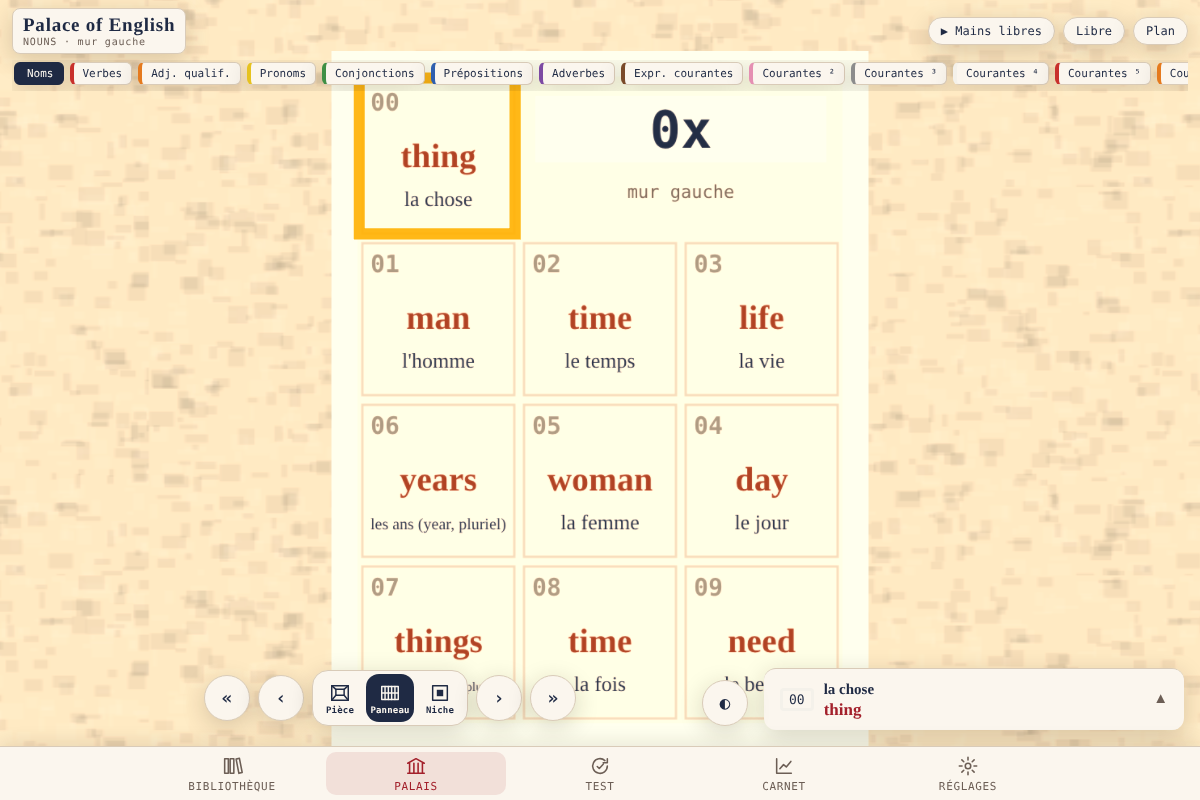
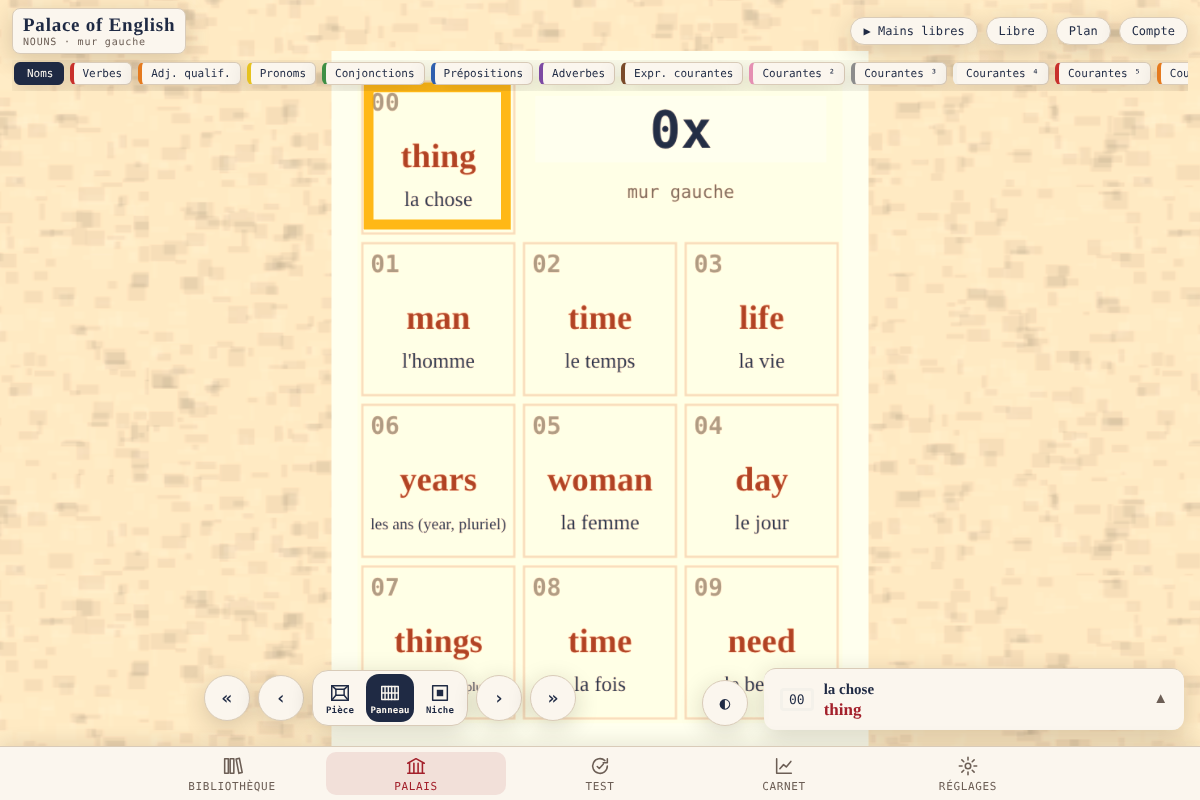
Réglages : section Compte (inscription, profil, suppression)
- Inscription ou connexion par code e-mail, avec case d'accord à l'inscription
- Profil : pseudo, changement d'adresse e-mail
- Progression : synchroniser, exporter en JSON
- Session : se déconnecter, se déconnecter partout
- Zone sensible : effacer la progression du serveur, supprimer son compte
  (fonction delete_own_account ajoutée à supabase/schema.sql)
- Paramètres du serveur Supabase réglables dans le navigateur
- Le bouton Compte ouvre désormais cette section

Claude-Session: https://claude.ai/code/session_015hKvfP9JfHFgn3vZcoheVE

Changed region(s): [[0.2775, 0.0938, 0.4317, 0.3125], [0.7092, 0.0, 0.8325, 0.0625], [0.8633, 0.0, 0.9867, 0.0625]]

diff --git a/index.html b/index.html
@@ -332,10 +332,6 @@ body:not([data-view="palais"]) #joy, body:not([data-view="palais"]) #cross, body
   <div class="btns"><button class="btn alt" type="button" data-close>Annuler</button><button class="btn danger" type="button" id="resetGo">Oui, tout effacer</button></div>
 </div></div>
 
-<div class="sheet" id="accountSheet" hidden><div>
-  <div class="shead"><h2>Mon compte</h2><span class="spacer"></span><button class="chip" type="button" data-close>Fermer</button></div>
-  <div id="accountBody" style="display:flex;flex-direction:column;gap:12px"></div>
-</div></div>
 
 <section class="view" id="lib" hidden aria-label="Bibliothèque"><div class="in">
   <h1>Bibliothèque <small id="libCount"></small></h1>
@@ -354,7 +350,9 @@ body:not([data-view="palais"]) #joy, body:not([data-view="palais"]) #cross, body
 
 <section class="view" id="reglages" hidden aria-label="Réglages"><div class="in">
   <h1>Réglages</h1>
-  <h2 style="margin:4px 0 0">Palais</h2>
+  <h2 style="margin:4px 0 0" id="compte">Compte</h2>
+  <div id="acctBody" style="display:flex;flex-direction:column;gap:10px"></div>
+  <h2 style="margin:18px 0 0">Palais</h2>
   <h3>Lecture pendant la visite</h3>
   <div class="pills" role="group" aria-label="Lecture audio pendant la visite du palais"><button class="pill" type="button" data-sayopt="vF">🔊 Mot FR</button><button class="pill" type="button" data-sayopt="vI">🔊 Mot EN</button><button class="pill" type="button" data-sayopt="vEF">🔊 Exemple FR</button><button class="pill" type="button" data-sayopt="vEI">🔊 Exemple EN</button></div>
   <p class="pr" style="margin:0">À chaque niche atteinte (visite guidée ou libre), les sons cochés sont lus l'un après l'autre, dans cet ordre.</p>
@@ -1278,7 +1276,7 @@ prefs.approach = AP_OF[PAL];   // l'approche d'apprentissage et la version du pa
 function save() { ls.set(PK("pos"), { r: st.r, n: st.n, zoom: st.zoom, zv: 2 }); }   // zv : cadrage choisi après le passage au « panneau » par défaut
 /* Deux comptes possibles : le compte Claude (capacité db) quand la page tourne dans Claude,
    ou un compte e-mail Supabase (code à 6 chiffres) sur la version GitHub Pages. Sinon : navigateur seulement. */
-const SBCFG = window.PM_CONFIG || {};
+const SBCFG = (() => { const c = Object.assign({}, window.PM_CONFIG || {}); try { const o = JSON.parse(localStorage.getItem("pmen:sbcfg") || "null"); if (o && o.supabaseUrl && o.supabaseKey) { c.supabaseUrl = o.supabaseUrl; c.supabaseKey = o.supabaseKey; c.local = true; } } catch (e) {} return c; })();
 const store = { kind: null, db: null, sb: null, uid: null, email: "", cache: {}, timers: {} };
 const mergeCards = (a, b) => { const o = Object.assign({}, a); for (const k in b) { const x = o[k], y = b[k]; if (!x || (y.seen || 0) > (x.seen || 0) || (y.d || 0) > (x.d || 0) || ((y.d || 0) === (x.d || 0) && (y.b || 0) > (x.b || 0))) o[k] = y; } return o; };
 async function remoteGet(key) {
@@ -1308,12 +1306,13 @@ async function initStore() {
       $("#accountBtn").hidden = false;
       const { data } = await store.sb.auth.getSession();
       if (data && data.session) await useSession(data.session); else renderAccount();
+      store.sb.auth.onAuthStateChange((ev, s) => { if (ev === "USER_UPDATED" && s) { store.user = s.user; store.email = s.user.email || store.email; renderAccount(); } });
     }
   } catch (e) { console.warn("stockage", e); }
 }
 function loadScript(src) { return new Promise((ok, ko) => { const sc = document.createElement("script"); sc.src = src; sc.onload = ok; sc.onerror = ko; document.head.appendChild(sc); }); }
 async function useSession(session) {
-  store.kind = "sb"; store.uid = session.user.id; store.email = session.user.email || "";
+  store.kind = "sb"; store.uid = session.user.id; store.user = session.user; store.email = session.user.email || "";
   const owner = ls.get("owner", null);
   if (owner && owner !== store.uid) { for (const r of CR()) ls.set("srs_" + r.id, {}); ls.set("hist", []); HIST = []; }
   ls.set("owner", store.uid); store.cache = {};
@@ -1422,30 +1421,132 @@ async function doReset() {
   }
   toast("Progression effacée : on repart de zéro"); setTimeout(() => location.reload(), 700);
 }
-/* Fenêtre « Compte » (version GitHub Pages) */
+/* Compte (section « Compte » des Réglages) : inscription / connexion par code e-mail (Supabase), réglages du compte,
+   export et suppression. La version publiée dans Claude utilise le compte Claude et n'affiche que l'état. */
+const acct = { step: "", confirm: "" };
+const inputCss = "font:inherit;font-size:16px;flex:1;min-width:12em;padding:6px 8px;border:1px solid var(--line);border-radius:8px;background:var(--bg);color:var(--fg)";
+const fmtDate = s => { try { return new Date(s).toLocaleDateString("fr-FR", { day: "numeric", month: "long", year: "numeric" }); } catch (e) { return ""; } };
+function localProgress() { const o = { palais: "Palace of English", exporte: new Date().toISOString(), srs: {}, hist: ls.get("hist", []), notes: ls.get("notes", {}) }; for (const id of allRoomIds()) { const c = ls.get("srs_" + id, {}); if (Object.keys(c).length) o.srs[id] = c; } return o; }
+function cardCount() { let n = 0; for (const id of allRoomIds()) n += Object.keys(ls.get("srs_" + id, {})).length; return n; }
+function serverBlock() {
+  const open = acct.step === "server";
+  return `<details ${open ? "open" : ""} style="margin-top:4px"><summary class="pr" style="cursor:pointer">Paramètres du serveur Supabase</summary>
+    <p class="pr" style="margin:8px 0">Le palais se synchronise avec un projet Supabase (table « progress », voir <span class="mono">supabase/schema.sql</span>). ${SBCFG.supabaseUrl ? `Serveur actuel : <span class="mono">${esc(SBCFG.supabaseUrl.replace(/^https?:\/\//, ""))}</span>${SBCFG.local ? " (réglé sur cet appareil)" : " (config.js)"}.` : "Aucun serveur n'est réglé : la progression reste sur cet appareil."}</p>
+    <div class="frow"><label for="sbUrl">URL du projet</label><input id="sbUrl" type="url" placeholder="https://xxxx.supabase.co" style="${inputCss}" value="${esc(SBCFG.local ? SBCFG.supabaseUrl : "")}"></div>
+    <div class="frow"><label for="sbKey">Clé « anon public »</label><input id="sbKey" type="text" autocomplete="off" spellcheck="false" placeholder="eyJ…" style="${inputCss}" value="${esc(SBCFG.local ? SBCFG.supabaseKey : "")}"></div>
+    <div class="btns"><button class="btn alt" type="button" data-acct="srvSave">Enregistrer et recharger</button>${SBCFG.local ? `<button class="btn alt" type="button" data-acct="srvReset">Revenir à config.js</button>` : ""}</div>
+    <p class="pr" style="margin:0">La clé « anon public » est faite pour être publique (Supabase → Project Settings → API). Ce réglage ne vaut que pour ce navigateur.</p></details>`;
+}
 function renderAccount(step) {
-  const b = $("#accountBody"); if (!b) return;
-  if (store.kind === "sb") { b.innerHTML = `<p style="margin:0">Connecté avec <b>${esc(store.email)}</b>. Ta progression est enregistrée sur ton compte et suit tes appareils.</p><div class="btns"><button class="btn alt" type="button" id="sbOut">Se déconnecter</button></div>`; return; }
-  if (step === "code") { b.innerHTML = `<p style="margin:0">Un code à 6 chiffres a été envoyé à <b>${esc(store.email)}</b>. Il peut mettre une minute à arriver ; pense aux courriers indésirables.</p>
+  if (step !== undefined) acct.step = step;
+  const b = $("#acctBody"); if (!b) return;
+  const msg = `<p class="pr" id="sbMsg" style="margin:0"></p>`;
+  if (store.kind === "claude") { b.innerHTML = `<p style="margin:0">Ta progression est enregistrée sur ton compte Claude et te suit sur tous tes appareils. Rien à régler ici.</p>`; return; }
+  if (!store.sb) {
+    b.innerHTML = `<p style="margin:0">Pas de compte : ta progression (${cardCount()} cartes) est enregistrée dans ce navigateur seulement.</p>
+      <div class="btns"><button class="btn alt" type="button" data-acct="export">Exporter ma progression</button></div>${serverBlock()}${msg}`; return;
+  }
+  if (store.kind === "sb") {
+    const u = store.user || {}, name = (u.user_metadata && u.user_metadata.name) || "";
+    if (acct.step === "email") { b.innerHTML = `<p style="margin:0">Nouvelle adresse e-mail. Un lien de confirmation sera envoyé aux deux adresses ; le changement prend effet une fois confirmé.</p>
+      <div class="frow"><label for="sbNewEmail">Nouvelle adresse</label><input id="sbNewEmail" type="email" autocomplete="email" style="${inputCss}"></div>
+      <div class="btns"><button class="btn" type="button" data-acct="emailGo">Changer d'adresse</button><button class="btn alt" type="button" data-acct="back">Annuler</button></div>${msg}`; setTimeout(() => $("#sbNewEmail") && $("#sbNewEmail").focus(), 50); return; }
+    if (acct.step === "name") { b.innerHTML = `<div class="frow"><label for="sbName">Prénom ou pseudo</label><input id="sbName" type="text" autocomplete="nickname" maxlength="40" style="${inputCss}" value="${esc(name)}"></div>
+      <div class="btns"><button class="btn" type="button" data-acct="nameGo">Enregistrer</button><button class="btn alt" type="button" data-acct="back">Annuler</button></div>${msg}`; setTimeout(() => $("#sbName") && $("#sbName").focus(), 50); return; }
+    if (acct.step === "delData" || acct.step === "delAcct") {
+      const all = acct.step === "delAcct";
+      b.innerHTML = `<p style="margin:0"><b>${all ? "Supprimer définitivement ton compte" : "Effacer ta progression enregistrée sur le compte"}</b></p>
+        <p class="pr" style="margin:0">${all ? "Ton compte, ton adresse e-mail et toute ta progression sur le serveur (tous les palais liés à ce compte) seront supprimés. Une copie reste dans ce navigateur, que tu peux exporter avant." : "La progression du Palace of English enregistrée sur le serveur est effacée ; ton compte et la copie de ce navigateur sont conservés."} Action irréversible.</p>
+        <div class="frow"><label for="sbConfirm">Tape <b>${all ? "SUPPRIMER" : "EFFACER"}</b> pour confirmer</label><input id="sbConfirm" type="text" autocomplete="off" style="${inputCss};max-width:10em"></div>
+        <div class="btns"><button class="btn danger" type="button" data-acct="${all ? "delAcctGo" : "delDataGo"}">${all ? "Supprimer mon compte" : "Effacer la progression du serveur"}</button><button class="btn alt" type="button" data-acct="back">Annuler</button></div>${msg}`; return;
+    }
+    b.innerHTML = `<p style="margin:0">Connecté avec <b>${esc(store.email)}</b>${name ? ` · ${esc(name)}` : ""}. Ta progression est enregistrée sur ton compte et suit tes appareils.</p>
+      ${u.created_at ? `<p class="pr" style="margin:0">Compte créé le ${fmtDate(u.created_at)}${u.last_sign_in_at ? ` · dernière connexion le ${fmtDate(u.last_sign_in_at)}` : ""}.</p>` : ""}
+      <h3 style="margin:6px 0 0">Profil</h3>
+      <div class="btns"><button class="btn alt" type="button" data-acct="name">${name ? "Changer de pseudo" : "Ajouter un pseudo"}</button><button class="btn alt" type="button" data-acct="email">Changer d'adresse e-mail</button></div>
+      <h3 style="margin:6px 0 0">Progression</h3>
+      <div class="btns"><button class="btn alt" type="button" data-acct="sync">Synchroniser maintenant</button><button class="btn alt" type="button" data-acct="export">Exporter (fichier JSON)</button></div>
+      <h3 style="margin:6px 0 0">Session</h3>
+      <div class="btns"><button class="btn alt" type="button" data-acct="out">Se déconnecter</button><button class="btn alt" type="button" data-acct="outAll">Se déconnecter partout</button></div>
+      <h3 style="margin:6px 0 0">Zone sensible</h3>
+      <div class="btns"><button class="btn danger" type="button" data-acct="delData">Effacer ma progression du serveur…</button><button class="btn danger" type="button" data-acct="delAcct">Supprimer mon compte…</button></div>
+      ${serverBlock()}${msg}`; return;
+  }
+  if (acct.step === "code") { b.innerHTML = `<p style="margin:0">Un code à 6 chiffres a été envoyé à <b>${esc(store.email)}</b>. Il peut mettre une minute à arriver ; pense aux courriers indésirables.</p>
       <div class="frow"><label for="sbCode">Code</label><input id="sbCode" type="text" inputmode="numeric" autocomplete="one-time-code" maxlength="6" style="font:inherit;font-size:20px;letter-spacing:.3em;width:7em;padding:6px 8px;border:1px solid var(--line);border-radius:8px;background:var(--bg);color:var(--fg)"></div>
-      <div class="btns"><button class="btn" type="button" id="sbVerify">Se connecter</button><button class="btn alt" type="button" id="sbBack">Changer d'adresse</button></div><p class="pr" id="sbMsg" style="margin:0"></p>`; setTimeout(() => $("#sbCode") && $("#sbCode").focus(), 50); return; }
-  b.innerHTML = `<p style="margin:0">Connecte-toi pour retrouver ta progression sur tous tes appareils. Pas de mot de passe : tu reçois un code par e-mail.</p>
-    <div class="frow"><label for="sbEmail">E-mail</label><input id="sbEmail" type="email" autocomplete="email" placeholder="prenom@exemple.fr" style="font:inherit;font-size:16px;flex:1;min-width:12em;padding:6px 8px;border:1px solid var(--line);border-radius:8px;background:var(--bg);color:var(--fg)" value="${esc(store.email)}"></div>
-    <div class="btns"><button class="btn" type="button" id="sbSend">Recevoir un code</button></div><p class="pr" id="sbMsg" style="margin:0"></p>`;
+      <div class="btns"><button class="btn" type="button" data-acct="verify">Valider</button><button class="btn alt" type="button" data-acct="resend">Renvoyer le code</button><button class="btn alt" type="button" data-acct="back">Changer d'adresse</button></div>${msg}`; setTimeout(() => $("#sbCode") && $("#sbCode").focus(), 50); return; }
+  const signup = acct.mode !== "login";
+  b.innerHTML = `<div class="pills" role="group" aria-label="Inscription ou connexion"><button class="pill" type="button" data-acct="modeSignup" aria-pressed="${signup}">Créer un compte</button><button class="pill" type="button" data-acct="modeLogin" aria-pressed="${!signup}">J'ai déjà un compte</button></div>
+    <p style="margin:0">${signup ? "Crée un compte gratuit pour retrouver ta progression sur tous tes appareils. Ta progression actuelle (" + cardCount() + " cartes) y sera ajoutée." : "Connecte-toi pour retrouver ta progression."} Pas de mot de passe : tu reçois un code par e-mail.</p>
+    <div class="frow"><label for="sbEmail">E-mail</label><input id="sbEmail" type="email" autocomplete="email" placeholder="prenom@exemple.fr" style="${inputCss}" value="${esc(store.email)}"></div>
+    ${signup ? `<label class="pr" style="display:flex;gap:8px;align-items:flex-start;margin:0"><input type="checkbox" id="sbOk" style="margin-top:3px"> J'accepte que mon adresse e-mail et ma progression soient enregistrées pour synchroniser le palais ; je peux supprimer mon compte à tout moment ici.</label>` : ""}
+    <div class="btns"><button class="btn" type="button" data-acct="send">${signup ? "Créer mon compte" : "Recevoir un code"}</button><button class="btn alt" type="button" data-acct="export">Exporter ma progression</button></div>${serverBlock()}${msg}`;
 }
-async function sbSend() {
-  const email = ($("#sbEmail").value || "").trim(); if (!/^\S+@\S+\.\S+$/.test(email)) { $("#sbMsg").textContent = "Adresse e-mail invalide."; return; }
-  $("#sbMsg").textContent = "Envoi…"; const { error } = await store.sb.auth.signInWithOtp({ email, options: { shouldCreateUser: true } });
-  if (error) { $("#sbMsg").textContent = error.status === 429 ? "Trop d'envois rapprochés : réessaie dans quelques minutes." : "Envoi impossible : " + error.message; return; }
-  store.email = email; renderAccount("code");
+const say = t => { const m = $("#sbMsg"); if (m) m.textContent = t; };
+function sbErr(error) { return error.status === 429 ? "Trop d'essais rapprochés : réessaie dans quelques minutes." : /signups? not allowed|user not found|otp_disabled/i.test(error.message || "") ? "Aucun compte avec cette adresse. Choisis « Créer un compte »." : error.message; }
+async function acctAction(a) {
+  try {
+    if (a === "modeSignup" || a === "modeLogin") { acct.mode = a === "modeLogin" ? "login" : "signup"; return renderAccount(""); }
+    if (a === "back") { acct.step = ""; return renderAccount(""); }
+    if (a === "export") {
+      const blob = new Blob([JSON.stringify(localProgress(), null, 1)], { type: "application/json" }), url = URL.createObjectURL(blob), el = document.createElement("a");
+      el.href = url; el.download = `palace-of-english-progression-${new Date().toISOString().slice(0, 10)}.json`; document.body.appendChild(el); el.click(); el.remove(); setTimeout(() => URL.revokeObjectURL(url), 2000);
+      return say("Fichier de progression téléchargé.");
+    }
+    if (a === "srvSave") {
+      const url = ($("#sbUrl").value || "").trim().replace(/\/+$/, ""), key = ($("#sbKey").value || "").trim();
+      if (!/^https:\/\/[\w.-]+$/.test(url) || key.length < 20) return say("URL (https://…supabase.co) ou clé invalide.");
+      localStorage.setItem("pmen:sbcfg", JSON.stringify({ supabaseUrl: url, supabaseKey: key })); return location.reload();
+    }
+    if (a === "srvReset") { localStorage.removeItem("pmen:sbcfg"); return location.reload(); }
+    if (a === "send" || a === "resend") {
+      const email = a === "resend" ? store.email : ($("#sbEmail").value || "").trim();
+      if (!/^\S+@\S+\.\S+$/.test(email)) return say("Adresse e-mail invalide.");
+      const signup = acct.mode !== "login";
+      if (a === "send" && signup && !($("#sbOk") && $("#sbOk").checked)) return say("Coche la case d'accord pour créer ton compte.");
+      say("Envoi…"); const { error } = await store.sb.auth.signInWithOtp({ email, options: { shouldCreateUser: signup } });
+      if (error) return say("Envoi impossible : " + sbErr(error));
+      store.email = email; renderAccount("code"); if (a === "resend") say("Nouveau code envoyé."); return;
+    }
+    if (a === "verify") {
+      const token = ($("#sbCode").value || "").replace(/\D/g, ""); if (token.length < 6) return say("Le code fait 6 chiffres.");
+      say("Vérification…"); const { data, error } = await store.sb.auth.verifyOtp({ email: store.email, token, type: "email" });
+      if (error || !data.session) return say("Code incorrect ou expiré. Renvoie un code.");
+      acct.step = ""; await useSession(data.session); return;
+    }
+    if (a === "name" || a === "email" || a === "delData" || a === "delAcct") return renderAccount(a);
+    if (a === "nameGo") {
+      const name = ($("#sbName").value || "").trim().slice(0, 40); say("Enregistrement…");
+      const { data, error } = await store.sb.auth.updateUser({ data: { name } }); if (error) return say(sbErr(error));
+      store.user = data.user; acct.step = ""; renderAccount(); return toast("Pseudo enregistré");
+    }
+    if (a === "emailGo") {
+      const email = ($("#sbNewEmail").value || "").trim(); if (!/^\S+@\S+\.\S+$/.test(email)) return say("Adresse e-mail invalide.");
+      say("Envoi…"); const { error } = await store.sb.auth.updateUser({ email }); if (error) return say(sbErr(error));
+      acct.step = ""; renderAccount(); return say(`Lien de confirmation envoyé à ${email} (et à l'ancienne adresse). Le changement prendra effet une fois confirmé.`);
+    }
+    if (a === "sync") { say("Synchronisation…"); await afterLogin(); return say("Progression synchronisée."); }
+    if (a === "out" || a === "outAll") {
+      await store.sb.auth.signOut(a === "outAll" ? { scope: "global" } : undefined);
+      store.kind = null; store.uid = null; store.user = null; store.cache = {}; acct.step = ""; $("#accountBtn").textContent = "Compte"; renderAccount();
+      return toast(a === "outAll" ? "Déconnecté de tous les appareils" : "Déconnecté : la progression reste aussi sur cet appareil");
+    }
+    if (a === "delDataGo") {
+      if (($("#sbConfirm").value || "").trim().toUpperCase() !== "EFFACER") return say("Tape EFFACER pour confirmer.");
+      say("Effacement…"); const { error } = await store.sb.from("progress").delete().like("key", "en:%"); if (error) return say(sbErr(error));
+      acct.step = ""; renderAccount(); return toast("Progression effacée du serveur (copie locale conservée)");
+    }
+    if (a === "delAcctGo") {
+      if (($("#sbConfirm").value || "").trim().toUpperCase() !== "SUPPRIMER") return say("Tape SUPPRIMER pour confirmer.");
+      say("Suppression…"); const { error } = await store.sb.rpc("delete_own_account");
+      if (error) return say(/function|not found|404/i.test(error.message || "") ? "La suppression n'est pas encore activée sur le serveur (fonction delete_own_account de supabase/schema.sql)." : sbErr(error));
+      try { await store.sb.auth.signOut({ scope: "local" }); } catch (e) {}
+      store.kind = null; store.uid = null; store.user = null; store.email = ""; store.cache = {}; ls.set("owner", null); acct.step = ""; $("#accountBtn").textContent = "Compte"; renderAccount();
+      return toast("Compte supprimé");
+    }
+  } catch (e) { console.warn("compte", a, e); say("Erreur : " + (e && e.message || e)); }
 }
-async function sbVerify() {
-  const token = ($("#sbCode").value || "").replace(/\D/g, ""); if (token.length < 6) { $("#sbMsg").textContent = "Le code fait 6 chiffres."; return; }
-  $("#sbMsg").textContent = "Vérification…"; const { data, error } = await store.sb.auth.verifyOtp({ email: store.email, token, type: "email" });
-  if (error || !data.session) { $("#sbMsg").textContent = "Code incorrect ou expiré. Redemande un code."; return; }
-  await useSession(data.session); closeSheets();
-}
-async function sbOut() { await store.sb.auth.signOut(); store.kind = null; store.uid = null; store.cache = {}; $("#accountBtn").textContent = "Compte"; renderAccount(); toast("Déconnecté : la progression reste aussi sur cet appareil"); }
+
 async function grade(ri, key, ok) {
   const c = await srsRoom(ri), cur = c[key] || { b: 0, d: today() };
   const b = ok ? Math.min(5, (cur.seen ? cur.b : 0) + 1) : 0;
@@ -1995,9 +2096,9 @@ function bindUI() {
   $("#dhead").onclick = () => setDrawer(!st.drawerOpen);
   $("#planBtn").onclick = () => { $("#planSheet").hidden = false; renderPlan(); };
   $("#resetBtn").onclick = openReset; $("#resetGo").onclick = doReset;
-  $("#accountBtn").onclick = () => { $("#accountSheet").hidden = false; renderAccount(); };
-  $("#accountSheet").addEventListener("click", e => { const id = e.target.id; if (id === "sbSend") sbSend(); if (id === "sbVerify") sbVerify(); if (id === "sbBack") renderAccount(); if (id === "sbOut") sbOut(); });
-  $("#accountSheet").addEventListener("keydown", e => { if (e.key !== "Enter") return; if (e.target.id === "sbEmail") sbSend(); if (e.target.id === "sbCode") sbVerify(); });
+  $("#accountBtn").onclick = () => { setView("reglages"); setTimeout(() => { const h = $("#compte"); if (h) h.scrollIntoView({ behavior: "smooth", block: "start" }); }, 60); };
+  $("#acctBody").addEventListener("click", e => { const b = e.target.closest("button"); if (b && b.dataset.acct) acctAction(b.dataset.acct); });
+  $("#acctBody").addEventListener("keydown", e => { if (e.key !== "Enter") return; const id = e.target.id; if (id === "sbEmail") acctAction("send"); if (id === "sbCode") acctAction("verify"); if (id === "sbNewEmail") acctAction("emailGo"); if (id === "sbName") acctAction("nameGo"); });
   document.addEventListener("click", e => {
     const t = e.target;
     if (t.closest("[data-close]")) return closeSheets();
@@ -2173,7 +2274,7 @@ function setView(v) {
   if (v === "palais") { onResize(); renderRooms(); }
   if (v === "lib") renderLib();
   if (v === "carnet") renderCarnet();
-  if (v === "reglages") renderTests();
+  if (v === "reglages") { renderTests(); renderAccount(); }
 }
 async function statusAll() { // par niche : boîte la plus haute atteinte (toutes questions confondues) et révision due
   const out = new Map(), t = today();

diff --git a/sw.js b/sw.js
@@ -4,7 +4,7 @@
    - les sons (paquets mp3 par salle, versionnés par ?v=) restent dans un cache à part, gardé d'une version à l'autre ;
    - les polices et scripts externes sont servis depuis le cache puis rafraîchis en arrière-plan ;
    - la synchronisation de progression (Supabase) ne passe jamais par le cache. */
-const VERSION = "2611161608";
+const VERSION = "2611170924";
 const CORE = "pmen-core-" + VERSION, EXT = "pmen-ext", AUDIO = "pmen-audio";
 const FILES = ["./", "index.html", "data3d.json", "config.js", "offline.js", "manifest.json", "vendor/three.min.js",
   "apple-touch-icon.png", "icon-512.png", "favicon-32.png", "logo.svg"];
